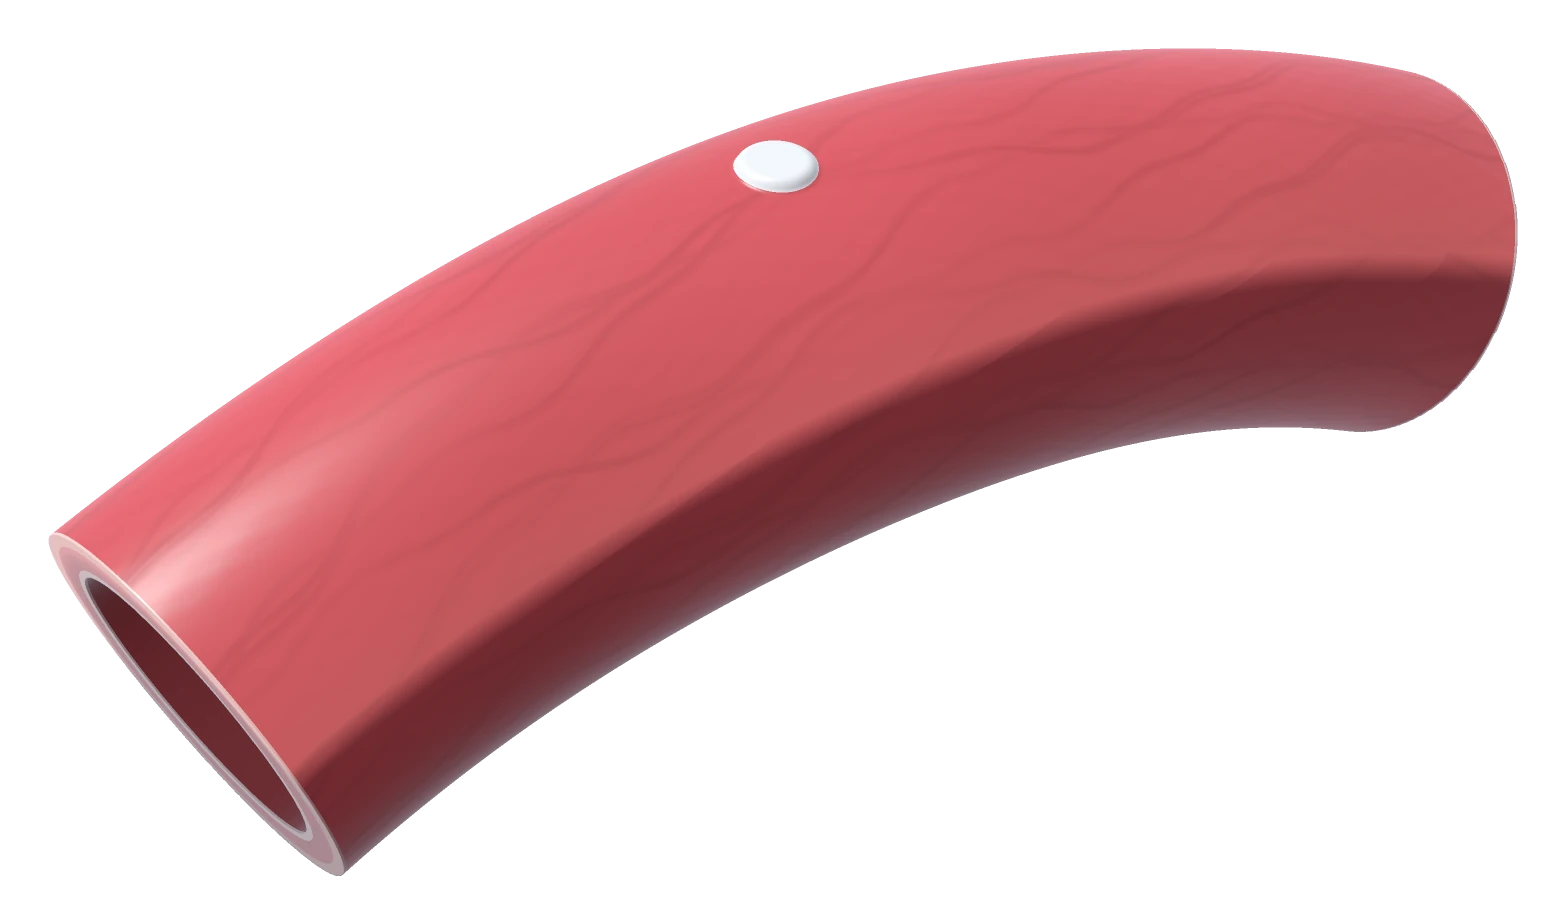
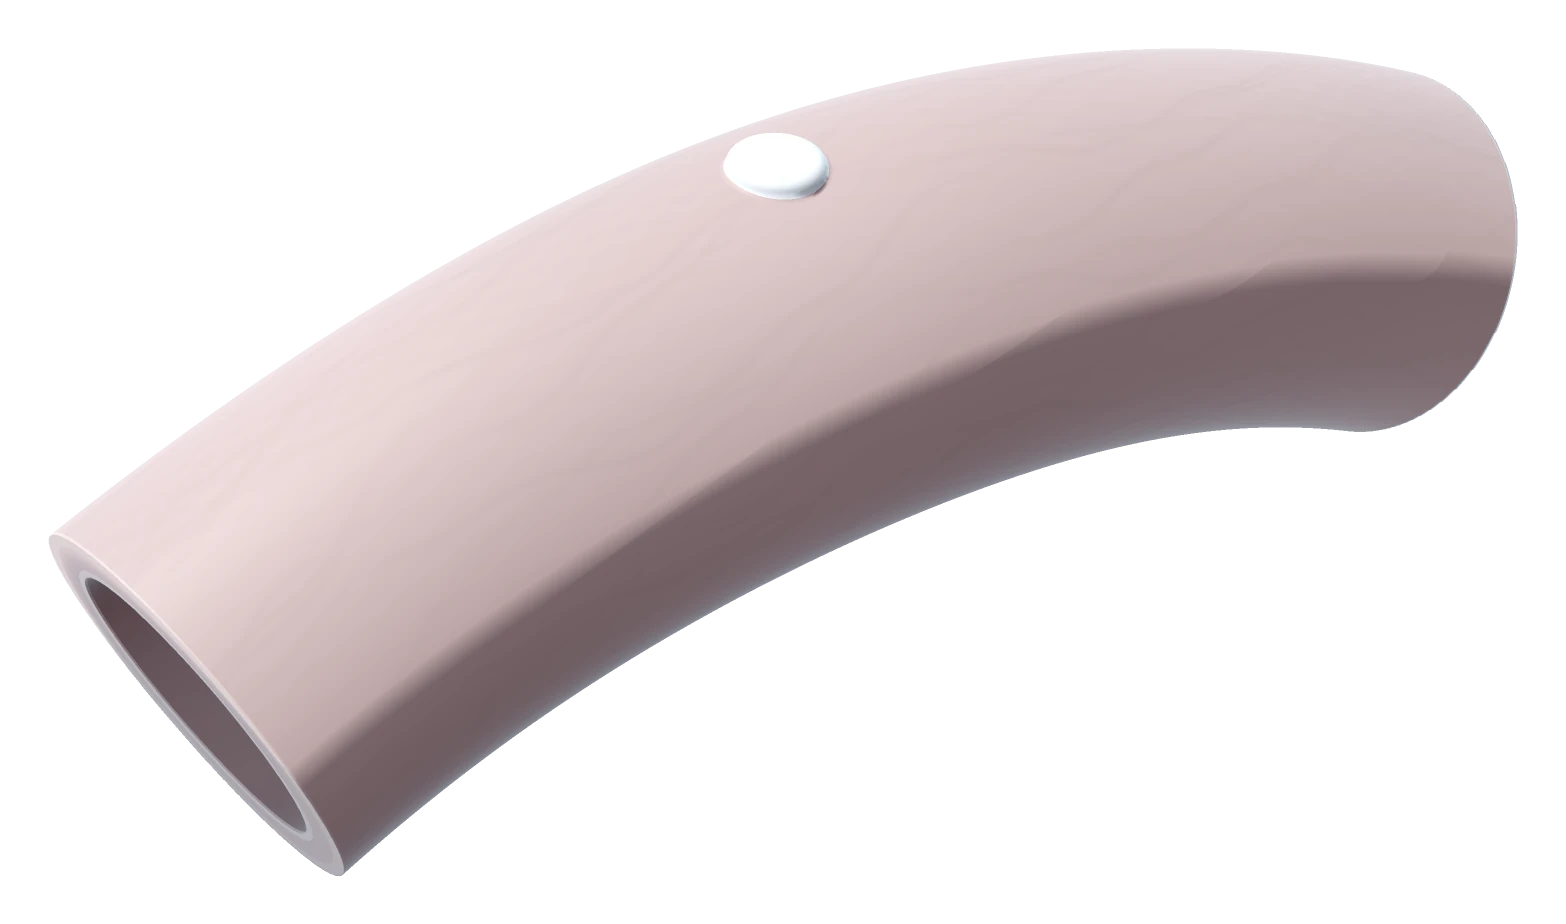
xdotmedical: hero vessel in a calm pale blush tissue tone, implant as the focal point (DT)
Claude-Session: https://claude.ai/code/session_014388NDdGZPxqSk7kzYv3nT

diff --git a/_kit/src/xdotmedical.src.html b/_kit/src/xdotmedical.src.html
@@ -1109,7 +1109,7 @@ function unmask(s){if(!s)return;(s.masks||[]).forEach(function(m){m.style.overfl
 /*<R:field>*//* ================= HERO FIELD: a crafted render of the subject xDot closes (HOME_BRIEF update 2c): a segment of the
    femoral artery, the large-bore access vessel, cut square at both ends so its layered wall and lumen read at once, with
    a single small implant seated on the closed access site on top. Rendered offline by render.py (sphere-traced SDF,
-   wet-tissue shading, soft shadows, AO, a sky-blue rim from the logo, real alpha) to hero.webp; here it breathes in a
+   calm pale blush tissue shading, soft shadows, AO, a sky-blue rim from the logo, real alpha) to hero.webp; here it breathes in a
    very slow drift. It moves on its own, so no pointer response (CZ). On phones it sits in the top band and fades into
    the ink above the text (CW). ================= */
 var field=(function(){
@@ -1531,7 +1531,7 @@ function preload(){
 var lw=innerWidth;addEventListener("resize",function(){clearTimeout(window._rz);window._rz=setTimeout(function(){if(Math.abs(innerWidth-lw)<2&&MOBILE())return;lw=innerWidth;ScrollTrigger.refresh()},250)});
 })();
 </script>
-<script>/* Safari dashes vector-effect:non-scaling-stroke paths in screen units, so a draw-in dash of getTotalLength() stops short of its end point (PRINCIPLES DR4). For every such path that is being dash-drawn, drop non-scaling-stroke and keep its on-screen width by dividing by the CTM scale. Static patterned dashes are left alone. */
+<script>/*R:nssfix*//* Safari dashes vector-effect:non-scaling-stroke paths in screen units, so a draw-in dash of getTotalLength() stops short of its end point (PRINCIPLES DR4). For every such path that is being dash-drawn, drop non-scaling-stroke and keep its on-screen width by dividing by the CTM scale. Static patterned dashes are left alone. */
 (function(){var done=new WeakSet();
 function sc(el){var m=el.getScreenCTM&&el.getScreenCTM();if(!m)return 1;var s=Math.sqrt(Math.abs(m.a*m.d-m.b*m.c));return s>0?s:1}
 function isDraw(el){var da=el.style.strokeDasharray||el.getAttribute("stroke-dasharray");if(!da||da==="none")return false;var v=String(da).split(/[ ,]+/).map(parseFloat).filter(function(x){return!isNaN(x)});if(!v.length)return false;var L=0;try{L=el.getTotalLength()}catch(e){return false}if(!(L>0))return false;return v[0]>=L*0.9}

diff --git a/xdotmedical/index.html b/xdotmedical/index.html
@@ -1673,7 +1673,7 @@ function unmask(s){if(!s)return;(s.masks||[]).forEach(function(m){m.style.overfl
 /*<R:field>*//* ================= HERO FIELD: a crafted render of the subject xDot closes (HOME_BRIEF update 2c): a segment of the
    femoral artery, the large-bore access vessel, cut square at both ends so its layered wall and lumen read at once, with
    a single small implant seated on the closed access site on top. Rendered offline by render.py (sphere-traced SDF,
-   wet-tissue shading, soft shadows, AO, a sky-blue rim from the logo, real alpha) to hero.webp; here it breathes in a
+   calm pale blush tissue shading, soft shadows, AO, a sky-blue rim from the logo, real alpha) to hero.webp; here it breathes in a
    very slow drift. It moves on its own, so no pointer response (CZ). On phones it sits in the top band and fades into
    the ink above the text (CW). ================= */
 var field=(function(){
@@ -2095,7 +2095,7 @@ function preload(){
 var lw=innerWidth;addEventListener("resize",function(){clearTimeout(window._rz);window._rz=setTimeout(function(){if(Math.abs(innerWidth-lw)<2&&MOBILE())return;lw=innerWidth;ScrollTrigger.refresh()},250)});
 })();
 </script>
-<script>/* Safari dashes vector-effect:non-scaling-stroke paths in screen units, so a draw-in dash of getTotalLength() stops short of its end point (PRINCIPLES DR4). For every such path that is being dash-drawn, drop non-scaling-stroke and keep its on-screen width by dividing by the CTM scale. Static patterned dashes are left alone. */
+<script>/*R:nssfix*//* Safari dashes vector-effect:non-scaling-stroke paths in screen units, so a draw-in dash of getTotalLength() stops short of its end point (PRINCIPLES DR4). For every such path that is being dash-drawn, drop non-scaling-stroke and keep its on-screen width by dividing by the CTM scale. Static patterned dashes are left alone. */
 (function(){var done=new WeakSet();
 function sc(el){var m=el.getScreenCTM&&el.getScreenCTM();if(!m)return 1;var s=Math.sqrt(Math.abs(m.a*m.d-m.b*m.c));return s>0?s:1}
 function isDraw(el){var da=el.style.strokeDasharray||el.getAttribute("stroke-dasharray");if(!da||da==="none")return false;var v=String(da).split(/[ ,]+/).map(parseFloat).filter(function(x){return!isNaN(x)});if(!v.length)return false;var L=0;try{L=el.getTotalLength()}catch(e){return false}if(!(L>0))return false;return v[0]>=L*0.9}

diff --git a/_kit/home/xdotmedical/field.js b/_kit/home/xdotmedical/field.js
@@ -1,7 +1,7 @@
 /* ================= HERO FIELD: a crafted render of the subject xDot closes (HOME_BRIEF update 2c): a segment of the
    femoral artery, the large-bore access vessel, cut square at both ends so its layered wall and lumen read at once, with
    a single small implant seated on the closed access site on top. Rendered offline by render.py (sphere-traced SDF,
-   wet-tissue shading, soft shadows, AO, a sky-blue rim from the logo, real alpha) to hero.webp; here it breathes in a
+   calm pale blush tissue shading, soft shadows, AO, a sky-blue rim from the logo, real alpha) to hero.webp; here it breathes in a
    very slow drift. It moves on its own, so no pointer response (CZ). On phones it sits in the top band and fades into
    the ink above the text (CW). ================= */
 var field=(function(){

diff --git a/_kit/home/xdotmedical/render.py b/_kit/home/xdotmedical/render.py
@@ -18,7 +18,7 @@ RM, RT, WALL = 7.0, 0.66, 0.17          # bend radius, tube radius (wall centre)
 PA, PB = math.radians(-23), math.radians(23)
 ACC = math.radians(-3)                   # access site angle along the arc
 ALPHA = math.radians(12)                 # implant position round the tube: from the outer bend toward the viewer
-IMP_R, IMP_H = 0.135, 0.032               # implant disc radius / half height
+IMP_R, IMP_H = 0.17, 0.038               # implant disc radius / half height
 
 
 def nrm0(a): a = np.array(a, float); return a / np.linalg.norm(a)
@@ -133,7 +133,7 @@ for kk in range(4):
     ves = np.maximum(ves, line ** 140 * (0.4 + 0.6 * np.sin(w * 0.05 + ph * 3) ** 2))
 Tq = np.cross(Nn, np.array([0.2, 1, 0.3])); Tq /= np.linalg.norm(Tq, axis=1, keepdims=True) + 1e-9
 Bq = np.cross(Nn, Tq)
-Nb = Nn + ((grain - 0.5) * 0.02 + ves * 0.025)[:, None] * Tq * (~isImp)[:, None] + (rng.standard_normal(len(P)) * 0.006)[:, None] * Bq
+Nb = Nn + ((grain - 0.5) * 0.02 + ves * 0.008)[:, None] * Tq * (~isImp)[:, None] + (rng.standard_normal(len(P)) * 0.006)[:, None] * Bq
 Nb /= np.linalg.norm(Nb, axis=1, keepdims=True)
 
 V_ = -dirs[hi]
@@ -160,15 +160,15 @@ for i in range(1, 7):
 ao = np.clip(ao, 0.1, 1) ** 1.25
 
 # albedo
-outer = np.array([0.60, 0.075, 0.095])
+outer = np.array([0.66, 0.53, 0.53])     # pale blush ivory, a calm clinical tissue tone (DT)
 mott = (np.sin(U * 0.045 + 1.3) * np.sin(Vv * 0.09 + 0.4 * np.sin(U * 0.03)) + 0.6 * np.sin(U * 0.11 + Vv * 0.07 + 2.0)) * 0.5
-alb = outer[None] * (1 - 0.05 * (grain - 0.5) - 0.18 * ves + 0.10 * mott)[:, None]
+alb = outer[None] * (1 - 0.03 * (grain - 0.5) - 0.05 * ves + 0.04 * mott)[:, None]
 # cut face: adventitia (outer, paler pink-tan) / media (rose red) / intima (pale, thin)
-cf = np.where(rel[:, None] > 0.45, np.array([0.80, 0.52, 0.48]),
-     np.where(rel[:, None] > -0.72, np.array([0.70, 0.27, 0.28]), np.array([0.90, 0.72, 0.70])))
+cf = np.where(rel[:, None] > 0.45, np.array([0.78, 0.68, 0.66]),
+     np.where(rel[:, None] > -0.72, np.array([0.70, 0.55, 0.55]), np.array([0.86, 0.80, 0.79])))
 alb = np.where(isCut[:, None], cf, alb)
-alb = np.where(isIn[:, None], np.array([0.36, 0.05, 0.06]), alb)
-alb = np.where(isImp[:, None], np.array([0.78, 0.86, 0.92]), alb)
+alb = np.where(isIn[:, None], np.array([0.40, 0.30, 0.31]), alb)
+alb = np.where(isImp[:, None], np.array([0.86, 0.95, 1.0]), alb)
 
 def wrap(n, L, w=0.45): return np.clip((n @ L + w) / (1 + w), 0, 1)
 dk = wrap(Nb, Lk) * sk
@@ -177,16 +177,17 @@ df = wrap(Nb, Lf, .6)
 sky = 0.5 + 0.5 * Nb[:, 1]
 amb = (np.array([0.08, 0.09, 0.12]) * sky[:, None] + np.array([0.04, 0.025, 0.03])) * ao[:, None]
 # tissue translucency: red light bleeding round the terminator
-sss = (np.clip(1 - np.abs(Nn @ Lk), 0, 1) ** 2 * 0.22 * sk)[:, None] * np.array([1.0, 0.25, 0.22]) * (~isImp)[:, None]
+sss = (np.clip(1 - np.abs(Nn @ Lk), 0, 1) ** 2 * 0.22 * sk)[:, None] * np.array([0.55, 0.36, 0.33]) * (~isImp)[:, None]
 col = alb * (dk[:, None] * Ck * (0.55 + 0.45 * ao[:, None]) + drr[:, None] * Cr * ao[:, None] * 0.6 + df[:, None] * Cf * ao[:, None] + wrap(Nb, Lq, .3)[:, None] * Cq * ao[:, None] + amb) + sss * ao[:, None]
 Hk = V_ + Lk; Hk /= np.linalg.norm(Hk, axis=1, keepdims=True)
 ndh = np.clip((Nb * Hk).sum(1), 0, 1)
-wet = np.where(isImp, ndh ** 80 * 1.0 + ndh ** 8 * 0.08, ndh ** 120 * 0.7 + ndh ** 24 * 0.10) * sk
+wet = np.where(isImp, ndh ** 80 * 1.0 + ndh ** 8 * 0.08, ndh ** 40 * 0.10 + ndh ** 10 * 0.04) * sk
 col += wet[:, None] * np.array([1.0, 0.98, 0.96])
 fres = (1 - np.clip((Nb * V_).sum(1), 0, 1)) ** 4
-trans = ((1 - np.clip((Nn * V_).sum(1), 0, 1)) ** 2.5 * 0.16 * (0.4 + 0.6 * sk))[:, None] * np.array([0.9, 0.12, 0.12]) * (~isImp & ~isCut)[:, None]
+trans = ((1 - np.clip((Nn * V_).sum(1), 0, 1)) ** 2.5 * 0.16 * (0.4 + 0.6 * sk))[:, None] * np.array([0.30, 0.22, 0.22]) * (~isImp & ~isCut)[:, None]
 col += trans
-col += (fres * 0.28 * ao)[:, None] * np.array([0.50, 0.78, 0.95])
+col += (fres * 0.34 * ao)[:, None] * np.array([0.50, 0.78, 0.95])
+col += (isImp * (0.16 + 0.3 * fres))[:, None] * np.array([0.55, 0.82, 0.98])
 col = np.clip(col, 0, None)
 col = col / (1 + col * 0.35) * 1.08
 col = np.clip(col, 0, 1) ** (1 / 2.2)

diff --git a/_kit/dossiers/xdotmedical.md b/_kit/dossiers/xdotmedical.md
@@ -24,6 +24,6 @@ Generic 2023 Wix template: a stock photo of a hugging senior couple in a field (
 - _kit/home/xdotmedical/* (assemble.py from firelight regions) → _kit/src/xdotmedical.src.html → /xdotmedical/index.html.
 - Palette from the live site: charcoal header #404040/#373B4D → ink #1f2229; sky-blue #7fccf7 accent; deep blue #28607A for buttons on bone. Montserrat (matches the wordmark) + Inter.
 - Logo: the site's own vector SVG (inline paths), white; header uses a horizontal lockup of the real mark + wordmark paths, loader the original stacked logo, solid fill.
-- Hero: option (c), a crafted render (render.py, sphere-traced SDF, wet tissue shading, real alpha) of a femoral artery segment cut at both ends with a single implant seated on the access site. No stock photo, nothing shared with another concept.
+- Hero: option (c), a crafted render (render.py, sphere-traced SDF, real alpha) of a femoral artery segment cut at both ends with a single implant seated on the access site. Rev 2 (coordinator review, DT): the vessel wall is a calm, pale, desaturated blush tissue tone with a subtly darker lumen and the sky-blue rim, no glossy red; the implant (sky-tinted, brighter) is the focal point. No stock photo, nothing shared with another concept.
 - Story: fine-line long section of the groin (skin, fat, fascia, common femoral artery) with large-bore sheath and guidewire, plus a view-from-above inset; steps access → implant around the site → purse-string cinches closed as the sheath withdraws.
 - Nav Technology / Clinical / Team / News open build-out pages (buildout lib); Contact scrolls to the contact block.
